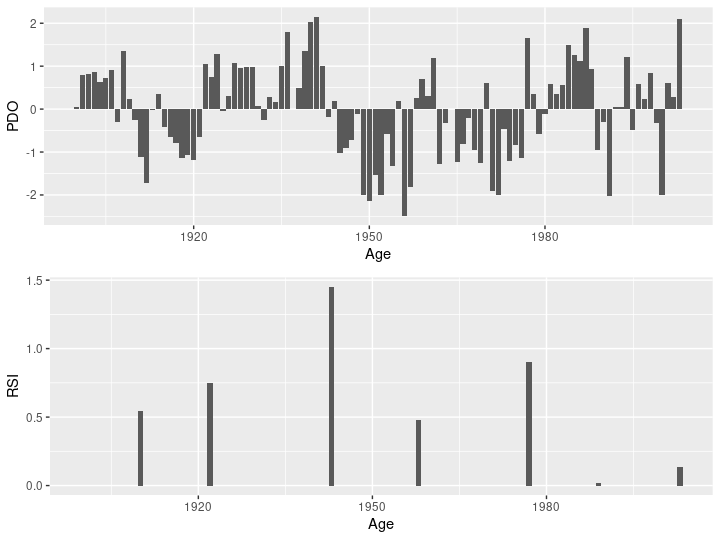
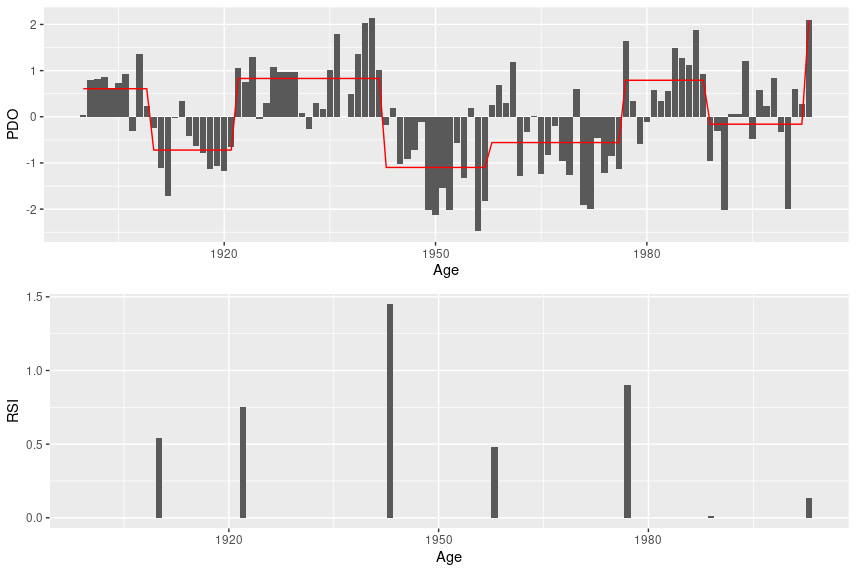
Moved regime means procedure to Rust and bumped version, vignette (#23)
* added regime means and plotting

* roxygenise

* fixed regime means and removed Rd file

* moved regime-means to Rust and bumped version, updated vignette

* fixed latex

diff --git a/src/rust/src/lib.rs b/src/rust/src/lib.rs
@@ -1,12 +1,13 @@
 use extendr_api::prelude::*;
 use std::cmp::min;
+use std::vec::Vec;
 
 /// Calculate STARS RSI points and return to R as a vector
 /// @param vals The column we are measuring change on
 /// @param t_crit The critical value of a t-distribution at the desired p-value
 /// @param l The cut-off length of a regime; affects sensitivity
 #[extendr(use_try_from = true)]
-fn rust_rodionov(vals: &[f64], t_crit: f64, l: usize) -> std::vec::Vec<f64> {
+fn rust_rodionov(vals: &[f64], t_crit: f64, l: usize) -> Vec<f64> {
     let mut results = vec![0.; l];
 
     // calculate sigma^2_l
@@ -102,10 +103,43 @@ fn calculate_rsi(regime: &[f64], shift_boundary: &f64, is_down: bool, l: &f64, v
     rsi
 }
 
+
+/// Calculates the mean for each regime in a regime shift analysis.
+/// @param col The column we are measuring change on.
+/// @param rsi The column containing RSI values.
+#[extendr(use_try_from = true)]
+fn rust_regime_means(col: &[f64], rsi: &[f64]) -> Vec<f64> {
+    let mut means: Vec<f64> = Vec::new();
+    let mut current_regime: Vec<f64> = Vec::new();
+    let mut regime_mean: f64;
+    let mut regime_length: usize;
+
+    for i in 0..col.len() {
+        if rsi[i] == 0. {
+            // add to current regime
+            current_regime.push(col[i]);
+        } else {
+            // new regime starts: calculate mean of last regime
+            regime_length = current_regime.len();
+            regime_mean = current_regime.drain(..).sum::<f64>() / regime_length as f64;
+            means.append(&mut [regime_mean].repeat(regime_length));
+            current_regime.push(col[i])
+        }
+    }
+    // calculate means for final regime
+    regime_length = current_regime.len();
+    regime_mean = current_regime.drain(..).sum::<f64>() / regime_length as f64;
+    means.append(&mut [regime_mean].repeat(regime_length));
+
+    means
+}
+
+
 // Macro to generate exports.
 // This ensures exported functions are registered with R.
 // See corresponding C code in `entrypoint.c`.
 extendr_module! {
     mod rshift;
     fn rust_rodionov;
+    fn rust_regime_means;
 }
